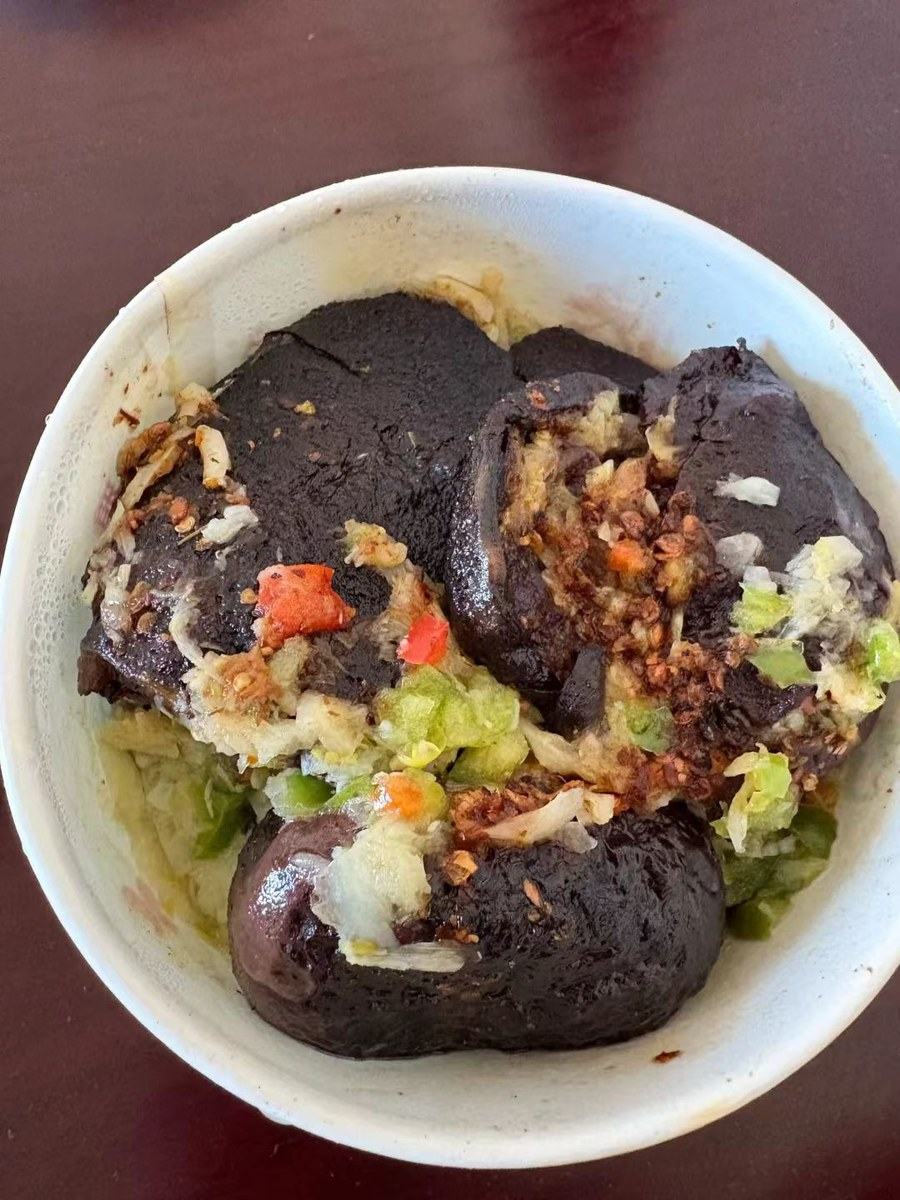
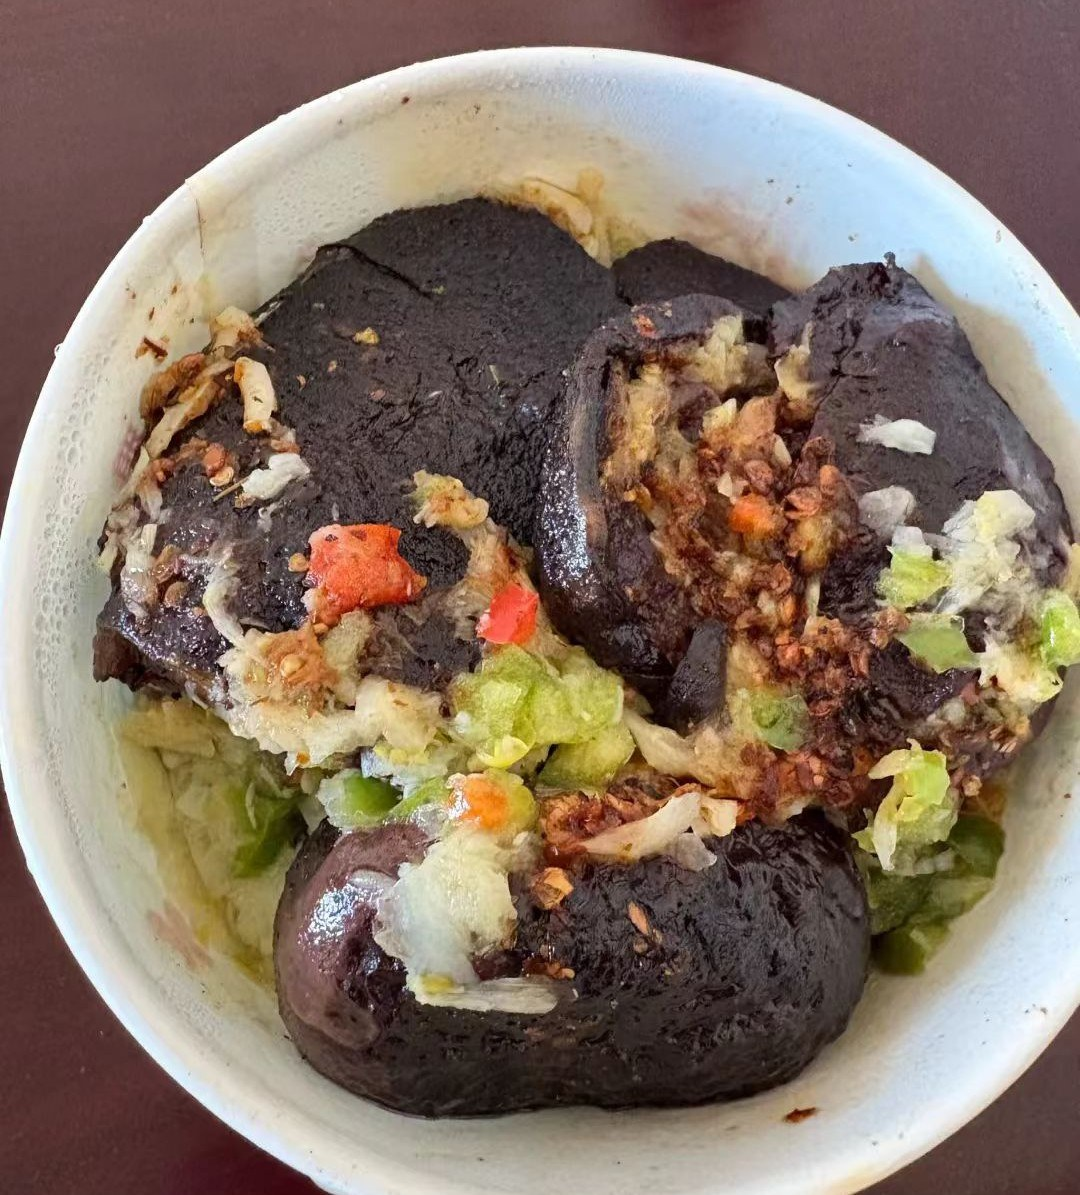
Update seat note and refresh travel images

diff --git a/public/invitation/app.js b/public/invitation/app.js
@@ -1,6 +1,7 @@
 (function () {
   const config = window.WEDDING_CONFIG;
   const app = document.querySelector("#app");
+  const assetVersion = config.assetVersion || "";
   const storageKey = "wedding-wishes-v2";
   const seedRepliesStorageKey = "wedding-seed-replies-v1";
   const wishApiEndpoint = config.blessing?.apiEndpoint || "";
@@ -28,6 +29,12 @@
       .replaceAll(">", "&gt;")
       .replaceAll('"', "&quot;")
       .replaceAll("'", "&#039;");
+  }
+
+  function versionAssetUrl(value) {
+    const url = String(value || "");
+    if (!assetVersion || !url || /^(https?:|data:|blob:)/.test(url)) return url;
+    return `${url}${url.includes("?") ? "&" : "?"}v=${encodeURIComponent(assetVersion)}`;
   }
 
   function getStoredWishes() {
@@ -273,7 +280,7 @@
     const cards = spots
       .map((spot, index) => {
         const image = spot.image
-          ? `<div class="travel-card__image"><img src="${escapeHtml(spot.image)}" alt="${escapeHtml(spot.name)}" loading="lazy" /></div>`
+          ? `<div class="travel-card__image"><img src="${escapeHtml(versionAssetUrl(spot.image))}" alt="${escapeHtml(spot.name)}" loading="lazy" /></div>`
           : `<div class="travel-card__image is-placeholder" data-mark="${escapeHtml(spot.name.slice(0, 1))}" style="background:${escapeHtml(spot.color)}" aria-hidden="true"></div>`;
         const url = spot.dianpingUrl || spot.link || "";
         const linkLabel = url ? '<span class="travel-card__link">大众点评 ↗</span>' : "";

diff --git a/public/invitation/index.html b/public/invitation/index.html
@@ -29,7 +29,7 @@
     <meta name="twitter:title" content="2026.10.6婚礼邀请函" />
     <meta name="twitter:description" content="李辰海&沙雷雨馨" />
     <meta name="twitter:image" content="https://mmbiz.qpic.cn/mmbiz_jpg/p1q58J1IVH5h1jyvzma5wcRcoDXhJskxtyqrCicWce4RpgrwQJjEyMibcBveofSZXYXFiaz0QI7OgcGtmXRjptz1de0lbkvsuI0KJ5xyRibcoDk/640?wx_fmt=jpeg&amp;from=appmsg" />
-    <link rel="stylesheet" href="./styles.css?v=20260903-travel-images" />
+    <link rel="stylesheet" href="./styles.css?v=20260903-seat-photo" />
   </head>
   <body>
     <main id="app" class="phone-shell"></main>
@@ -55,9 +55,9 @@
         <span class="tabbar__label">座位</span>
       </button>
     </nav>
-    <script src="./travel-data.js?v=20260903-travel-images"></script>
-    <script src="./photo-data.js?v=20260903-travel-images"></script>
-    <script src="./config.js?v=20260903-travel-images"></script>
-    <script src="./app.js?v=20260903-travel-images" defer></script>
+    <script src="./travel-data.js?v=20260903-seat-photo"></script>
+    <script src="./photo-data.js?v=20260903-seat-photo"></script>
+    <script src="./config.js?v=20260903-seat-photo"></script>
+    <script src="./app.js?v=20260903-seat-photo" defer></script>
   </body>
 </html>

diff --git a/public/invitation/config.js b/public/invitation/config.js
@@ -1,4 +1,5 @@
 window.WEDDING_CONFIG = {
+  assetVersion: "20260903-seat-photo",
   couple: {
     groom: "李辰海",
     bride: "沙雷雨馨",
@@ -36,7 +37,7 @@ window.WEDDING_CONFIG = {
   },
   seatLookup: {
     apiEndpoint: "/api/seats",
-    helpText: "座位信息将在婚礼前夕更新，届时请输入请柬上的宾客姓名查询。",
+    helpText: "座位信息将在婚礼前夕更新，届时请输您的姓名查询。",
   },
   share: {
     title: "2026.10.6婚礼邀请函",
